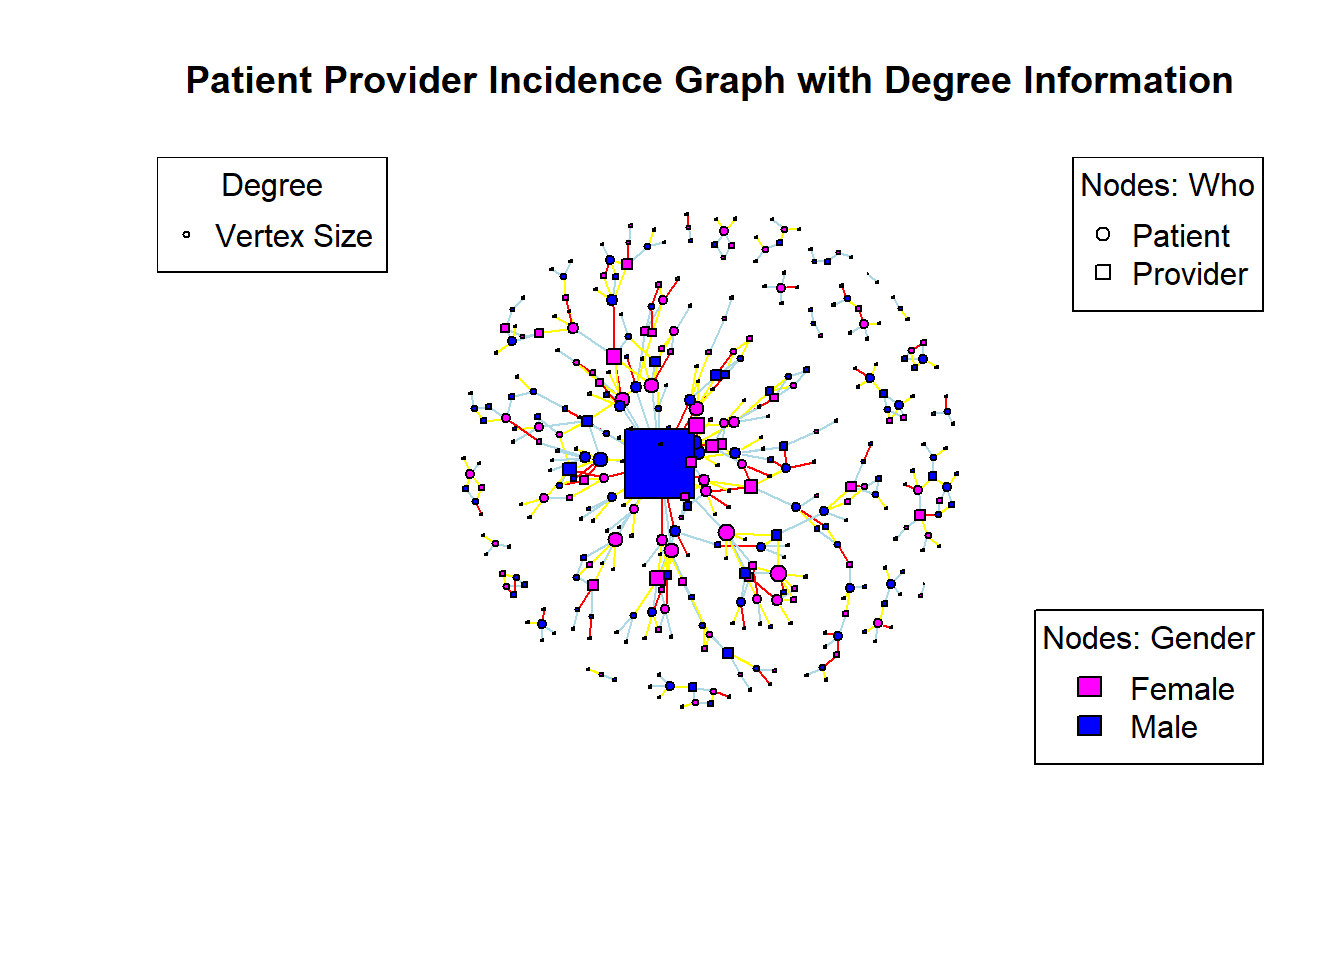
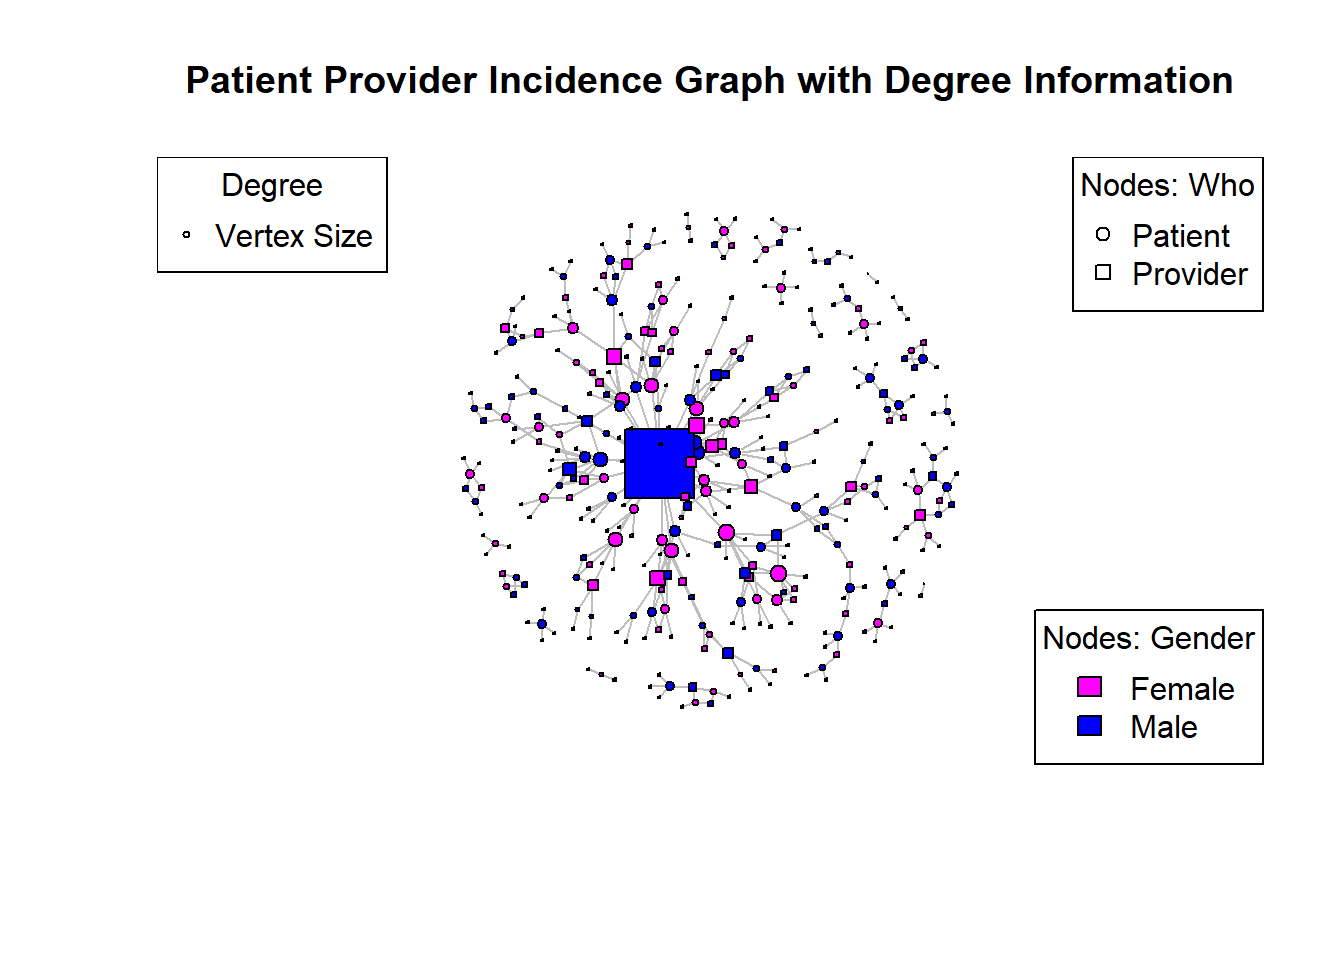
post two updates

diff --git a/docs/posts/Post_Two/post_2.html b/docs/posts/Post_Two/post_2.html
@@ -737,52 +737,96 @@ Elmer371 Kutch271            TRUE   1 0.000000e+00 0.1000000000 1.372897e-17</co
 <span id="cb25-6"><a href="#cb25-6" aria-hidden="true" tabindex="-1"></a><span class="fu">plot</span>(incidence_graph, </span>
 <span id="cb25-7"><a href="#cb25-7" aria-hidden="true" tabindex="-1"></a>     <span class="at">layout =</span> layout.fruchterman.reingold, </span>
 <span id="cb25-8"><a href="#cb25-8" aria-hidden="true" tabindex="-1"></a>     <span class="at">vertex.color =</span> vertex_colors,</span>
-<span id="cb25-9"><a href="#cb25-9" aria-hidden="true" tabindex="-1"></a>     <span class="at">edge.label =</span> <span class="cn">NA</span>,</span>
-<span id="cb25-10"><a href="#cb25-10" aria-hidden="true" tabindex="-1"></a>     <span class="at">vertex.label =</span> <span class="cn">NA</span>,</span>
-<span id="cb25-11"><a href="#cb25-11" aria-hidden="true" tabindex="-1"></a>     <span class="at">main =</span> <span class="st">"Patient Provider Incidence Graph with Degree Information"</span>)</span>
-<span id="cb25-12"><a href="#cb25-12" aria-hidden="true" tabindex="-1"></a><span class="co"># Define legend for vertex colors</span></span>
-<span id="cb25-13"><a href="#cb25-13" aria-hidden="true" tabindex="-1"></a><span class="fu">legend</span>(<span class="st">"bottomright"</span>,</span>
-<span id="cb25-14"><a href="#cb25-14" aria-hidden="true" tabindex="-1"></a>       <span class="at">legend =</span> <span class="fu">c</span>(<span class="st">"Female"</span>, <span class="st">"Male"</span>),  <span class="co"># You can customize these labels</span></span>
-<span id="cb25-15"><a href="#cb25-15" aria-hidden="true" tabindex="-1"></a>       <span class="at">fill =</span> <span class="fu">c</span>(<span class="st">"magenta"</span>, <span class="st">"blue"</span>),   <span class="co"># Fill colors corresponding to vertex colors</span></span>
-<span id="cb25-16"><a href="#cb25-16" aria-hidden="true" tabindex="-1"></a>       <span class="at">title =</span> <span class="st">"Nodes: Gender"</span>)              <span class="co"># Legend title</span></span>
-<span id="cb25-17"><a href="#cb25-17" aria-hidden="true" tabindex="-1"></a></span>
-<span id="cb25-18"><a href="#cb25-18" aria-hidden="true" tabindex="-1"></a><span class="co"># Define legend for vertex shapes</span></span>
-<span id="cb25-19"><a href="#cb25-19" aria-hidden="true" tabindex="-1"></a><span class="fu">legend</span>(<span class="st">"topright"</span>,</span>
-<span id="cb25-20"><a href="#cb25-20" aria-hidden="true" tabindex="-1"></a>       <span class="at">legend =</span> <span class="fu">c</span>(<span class="st">"Patient"</span>, <span class="st">"Provider"</span>),  <span class="co"># You can customize these labels</span></span>
-<span id="cb25-21"><a href="#cb25-21" aria-hidden="true" tabindex="-1"></a>       <span class="at">pch =</span> <span class="fu">c</span>(<span class="dv">1</span>, <span class="dv">0</span>),                      <span class="co"># Point shapes corresponding to vertex shapes</span></span>
-<span id="cb25-22"><a href="#cb25-22" aria-hidden="true" tabindex="-1"></a>       <span class="at">title =</span> <span class="st">"Nodes: Who"</span>)                     <span class="co"># Legend title</span></span>
-<span id="cb25-23"><a href="#cb25-23" aria-hidden="true" tabindex="-1"></a></span>
-<span id="cb25-24"><a href="#cb25-24" aria-hidden="true" tabindex="-1"></a><span class="co"># Define legend for edge colors</span></span>
-<span id="cb25-25"><a href="#cb25-25" aria-hidden="true" tabindex="-1"></a><span class="fu">legend</span>(<span class="st">"topleft"</span>, </span>
-<span id="cb25-26"><a href="#cb25-26" aria-hidden="true" tabindex="-1"></a>       <span class="at">legend =</span> <span class="st">"Vertex Size"</span>, </span>
-<span id="cb25-27"><a href="#cb25-27" aria-hidden="true" tabindex="-1"></a>       <span class="at">pch =</span> <span class="dv">1</span>, </span>
-<span id="cb25-28"><a href="#cb25-28" aria-hidden="true" tabindex="-1"></a>       <span class="at">pt.cex =</span> <span class="fu">seq</span>(<span class="fl">0.5</span>, <span class="dv">3</span>, <span class="at">length.out =</span> <span class="dv">5</span>), </span>
-<span id="cb25-29"><a href="#cb25-29" aria-hidden="true" tabindex="-1"></a>       <span class="at">title =</span> <span class="st">"Degree"</span>)</span></code><button title="Copy to Clipboard" class="code-copy-button"><i class="bi"></i></button></pre></div>
+<span id="cb25-9"><a href="#cb25-9" aria-hidden="true" tabindex="-1"></a>     <span class="at">edge.color =</span> <span class="st">"gray"</span>,</span>
+<span id="cb25-10"><a href="#cb25-10" aria-hidden="true" tabindex="-1"></a>     <span class="at">edge.label =</span> <span class="cn">NA</span>,</span>
+<span id="cb25-11"><a href="#cb25-11" aria-hidden="true" tabindex="-1"></a>     <span class="at">vertex.label =</span> <span class="cn">NA</span>,</span>
+<span id="cb25-12"><a href="#cb25-12" aria-hidden="true" tabindex="-1"></a>     <span class="at">main =</span> <span class="st">"Patient Provider Incidence Graph with Degree Information"</span>)</span>
+<span id="cb25-13"><a href="#cb25-13" aria-hidden="true" tabindex="-1"></a><span class="co"># Define legend for vertex colors</span></span>
+<span id="cb25-14"><a href="#cb25-14" aria-hidden="true" tabindex="-1"></a><span class="fu">legend</span>(<span class="st">"bottomright"</span>,</span>
+<span id="cb25-15"><a href="#cb25-15" aria-hidden="true" tabindex="-1"></a>       <span class="at">legend =</span> <span class="fu">c</span>(<span class="st">"Female"</span>, <span class="st">"Male"</span>),  <span class="co"># You can customize these labels</span></span>
+<span id="cb25-16"><a href="#cb25-16" aria-hidden="true" tabindex="-1"></a>       <span class="at">fill =</span> <span class="fu">c</span>(<span class="st">"magenta"</span>, <span class="st">"blue"</span>),   <span class="co"># Fill colors corresponding to vertex colors</span></span>
+<span id="cb25-17"><a href="#cb25-17" aria-hidden="true" tabindex="-1"></a>       <span class="at">title =</span> <span class="st">"Nodes: Gender"</span>)              <span class="co"># Legend title</span></span>
+<span id="cb25-18"><a href="#cb25-18" aria-hidden="true" tabindex="-1"></a></span>
+<span id="cb25-19"><a href="#cb25-19" aria-hidden="true" tabindex="-1"></a><span class="co"># Define legend for vertex shapes</span></span>
+<span id="cb25-20"><a href="#cb25-20" aria-hidden="true" tabindex="-1"></a><span class="fu">legend</span>(<span class="st">"topright"</span>,</span>
+<span id="cb25-21"><a href="#cb25-21" aria-hidden="true" tabindex="-1"></a>       <span class="at">legend =</span> <span class="fu">c</span>(<span class="st">"Patient"</span>, <span class="st">"Provider"</span>),  <span class="co"># You can customize these labels</span></span>
+<span id="cb25-22"><a href="#cb25-22" aria-hidden="true" tabindex="-1"></a>       <span class="at">pch =</span> <span class="fu">c</span>(<span class="dv">1</span>, <span class="dv">0</span>),                      <span class="co"># Point shapes corresponding to vertex shapes</span></span>
+<span id="cb25-23"><a href="#cb25-23" aria-hidden="true" tabindex="-1"></a>       <span class="at">title =</span> <span class="st">"Nodes: Who"</span>)                     <span class="co"># Legend title</span></span>
+<span id="cb25-24"><a href="#cb25-24" aria-hidden="true" tabindex="-1"></a></span>
+<span id="cb25-25"><a href="#cb25-25" aria-hidden="true" tabindex="-1"></a><span class="co"># Define legend for edge colors</span></span>
+<span id="cb25-26"><a href="#cb25-26" aria-hidden="true" tabindex="-1"></a><span class="fu">legend</span>(<span class="st">"topleft"</span>, </span>
+<span id="cb25-27"><a href="#cb25-27" aria-hidden="true" tabindex="-1"></a>       <span class="at">legend =</span> <span class="st">"Vertex Size"</span>, </span>
+<span id="cb25-28"><a href="#cb25-28" aria-hidden="true" tabindex="-1"></a>       <span class="at">pch =</span> <span class="dv">1</span>, </span>
+<span id="cb25-29"><a href="#cb25-29" aria-hidden="true" tabindex="-1"></a>       <span class="at">pt.cex =</span> <span class="fu">seq</span>(<span class="fl">0.5</span>, <span class="dv">3</span>, <span class="at">length.out =</span> <span class="dv">5</span>), </span>
+<span id="cb25-30"><a href="#cb25-30" aria-hidden="true" tabindex="-1"></a>       <span class="at">title =</span> <span class="st">"Degree"</span>)</span></code><button title="Copy to Clipboard" class="code-copy-button"><i class="bi"></i></button></pre></div>
 <div class="cell-output-display">
 <p><img src="post_2_files/figure-html/unnamed-chunk-10-1.png" class="img-fluid" width="672"></p>
 </div>
 </div>
-<p>network.vertex.names(encounters.st.3) # identify the number of actors in the example N &lt;- dim(encounters.st.3 )[1]</p>
-</section>
-<section id="identify-the-number-of-events-in-the-example" class="level1">
-<h1>identify the number of events in the example</h1>
-<p>M &lt;- dim( encounters.st.3 )[2]</p>
-</section>
-<section id="set-the-actor-colors" class="level1">
-<h1>set the actor colors</h1>
-<p>actor.col &lt;- rep( “green”, N )</p>
-</section>
-<section id="set-the-event-colors" class="level1">
-<h1>set the event colors</h1>
-<p>event.col &lt;- rep( “#382ee8”, M )</p>
-</section>
-<section id="now-combine-them-into-a-single-vector-of-colors" class="level1">
-<h1>now combine them into a single vector of colors</h1>
-<p>node.col &lt;- c( actor.col, event.col )</p>
-</section>
-<section id="take-a-look" class="level1">
-<h1>take a look</h1>
-<p>node.col</p>
+<div class="cell">
+<div class="sourceCode cell-code" id="cb26"><pre class="sourceCode r code-with-copy"><code class="sourceCode r"><span id="cb26-1"><a href="#cb26-1" aria-hidden="true" tabindex="-1"></a>triads_incidence<span class="ot">&lt;-</span>igraph<span class="sc">::</span><span class="fu">triad_census</span>(incidence_graph)</span></code><button title="Copy to Clipboard" class="code-copy-button"><i class="bi"></i></button></pre></div>
+<div class="cell-output cell-output-stderr">
+<pre><code>Warning in igraph::triad_census(incidence_graph): At
+vendor/cigraph/src/misc/motifs.c:1140 : Triad census called on an undirected
+graph. All connections will be treated as mutual.</code></pre>
+</div>
+<div class="sourceCode cell-code" id="cb28"><pre class="sourceCode r code-with-copy"><code class="sourceCode r"><span id="cb28-1"><a href="#cb28-1" aria-hidden="true" tabindex="-1"></a>triads_incidence</span></code><button title="Copy to Clipboard" class="code-copy-button"><i class="bi"></i></button></pre></div>
+<div class="cell-output cell-output-stdout">
+<pre><code> [1] 8487860       0  159964       0       0       0       0       0       0
+[10]       0    1300       0       0       0       0       0</code></pre>
+</div>
+<div class="sourceCode cell-code" id="cb30"><pre class="sourceCode r code-with-copy"><code class="sourceCode r"><span id="cb30-1"><a href="#cb30-1" aria-hidden="true" tabindex="-1"></a>igraph<span class="sc">::</span><span class="fu">dyad.census</span>(incidence_graph)</span></code><button title="Copy to Clipboard" class="code-copy-button"><i class="bi"></i></button></pre></div>
+<div class="cell-output cell-output-stderr">
+<pre><code>Warning: `dyad.census()` was deprecated in igraph 2.0.0.
+ℹ Please use `dyad_census()` instead.</code></pre>
+</div>
+<div class="cell-output cell-output-stderr">
+<pre><code>Warning: `dyad_census()` requires a directed graph.</code></pre>
+</div>
+<div class="cell-output cell-output-stdout">
+<pre><code>$mut
+[1] 437
+
+$asym
+[1] 0
+
+$null
+[1] 69314</code></pre>
+</div>
+<div class="sourceCode cell-code" id="cb34"><pre class="sourceCode r code-with-copy"><code class="sourceCode r"><span id="cb34-1"><a href="#cb34-1" aria-hidden="true" tabindex="-1"></a><span class="fu">transitivity</span>(incidence_graph)</span></code><button title="Copy to Clipboard" class="code-copy-button"><i class="bi"></i></button></pre></div>
+<div class="cell-output cell-output-stdout">
+<pre><code>[1] 0</code></pre>
+</div>
+<div class="sourceCode cell-code" id="cb36"><pre class="sourceCode r code-with-copy"><code class="sourceCode r"><span id="cb36-1"><a href="#cb36-1" aria-hidden="true" tabindex="-1"></a><span class="fu">transitivity</span>(incidence_graph, <span class="at">type =</span> <span class="st">"global"</span>)</span></code><button title="Copy to Clipboard" class="code-copy-button"><i class="bi"></i></button></pre></div>
+<div class="cell-output cell-output-stdout">
+<pre><code>[1] 0</code></pre>
+</div>
+<div class="sourceCode cell-code" id="cb38"><pre class="sourceCode r code-with-copy"><code class="sourceCode r"><span id="cb38-1"><a href="#cb38-1" aria-hidden="true" tabindex="-1"></a><span class="fu">average.path.length</span>(incidence_graph)</span></code><button title="Copy to Clipboard" class="code-copy-button"><i class="bi"></i></button></pre></div>
+<div class="cell-output cell-output-stderr">
+<pre><code>Warning: `average.path.length()` was deprecated in igraph 2.0.0.
+ℹ Please use `mean_distance()` instead.</code></pre>
+</div>
+<div class="cell-output cell-output-stdout">
+<pre><code>[1] 6.166661</code></pre>
+</div>
+</div>
+<p>Component Structure and Membership</p>
+<p>First, let’s look at the network component structure. This gives a list with: membership by node, size of each component, and the total number of components.</p>
+<div class="cell">
+<div class="sourceCode cell-code" id="cb41"><pre class="sourceCode r code-with-copy"><code class="sourceCode r"><span id="cb41-1"><a href="#cb41-1" aria-hidden="true" tabindex="-1"></a><span class="fu">names</span>(igraph<span class="sc">::</span><span class="fu">components</span>(incidence_graph))</span></code><button title="Copy to Clipboard" class="code-copy-button"><i class="bi"></i></button></pre></div>
+<div class="cell-output cell-output-stdout">
+<pre><code>[1] "membership" "csize"      "no"        </code></pre>
+</div>
+<div class="sourceCode cell-code" id="cb43"><pre class="sourceCode r code-with-copy"><code class="sourceCode r"><span id="cb43-1"><a href="#cb43-1" aria-hidden="true" tabindex="-1"></a>igraph<span class="sc">::</span><span class="fu">components</span>(incidence_graph)<span class="sc">$</span>no <span class="co"># number of components</span></span></code><button title="Copy to Clipboard" class="code-copy-button"><i class="bi"></i></button></pre></div>
+<div class="cell-output cell-output-stdout">
+<pre><code>[1] 22</code></pre>
+</div>
+<div class="sourceCode cell-code" id="cb45"><pre class="sourceCode r code-with-copy"><code class="sourceCode r"><span id="cb45-1"><a href="#cb45-1" aria-hidden="true" tabindex="-1"></a>igraph<span class="sc">::</span><span class="fu">components</span>(incidence_graph)<span class="sc">$</span>csize <span class="co">#Size of each component</span></span></code><button title="Copy to Clipboard" class="code-copy-button"><i class="bi"></i></button></pre></div>
+<div class="cell-output cell-output-stdout">
+<pre><code> [1] 249   8  18   4   6  10   3   5   3   4   5   9   6   7   2   3   5  10   7
+[20]   3   5   2</code></pre>
+</div>
+</div>
 
 
 </section>

diff --git a/docs/index.html b/docs/index.html
@@ -170,7 +170,7 @@ ul.task-list li input[type="checkbox"] {
 
 <div class="quarto-listing quarto-listing-container-default" id="listing-listing">
 <div class="list quarto-listing-default">
-<div class="quarto-post image-right" data-index="0" data-categories="code,analysis" data-listing-date-sort="1713672000000" data-listing-file-modified-sort="1713729939558" data-listing-date-modified-sort="NaN" data-listing-reading-time-sort="6">
+<div class="quarto-post image-right" data-index="0" data-categories="code,analysis" data-listing-date-sort="1713672000000" data-listing-file-modified-sort="1713733740142" data-listing-date-modified-sort="NaN" data-listing-reading-time-sort="6">
 <div class="thumbnail">
 <p><a href="./posts/Post_Two/post_2.html"> <p class="card-img-top"><img src="posts\Post_Two\post_2_files\figure-html\unnamed-chunk-5-1.png"  class="thumbnail-image card-img"/></p> </a></p>
 </div>
